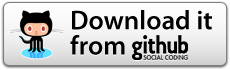
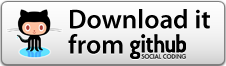
Badge size fixed

diff --git a/projects.html b/projects.html
@@ -16,8 +16,8 @@
             <div class="col-lg-4">
                 <a href='https://play.google.com/store/apps/details?id=com.tbirkas.efflux&utm_source=global_co&utm_medium=prtnr&utm_content=Mar2515&utm_campaign=PartBadge&pcampaignid=MKT-Other-global-all-co-prtnr-py-PartBadge-Mar2515-1'><img
                         alt='Get it on Google Play'
-                        src='https://play.google.com/intl/en_us/badges/images/generic/en_badge_web_generic.png'
-                        height="70px"/></a>
+                        src='assets/play-download-button.png'
+                        height="52px"/></a>
             </div>
             <div class="col-lg-4"></div>
         </div>
@@ -43,14 +43,14 @@
             <div class="col-lg-4">
                 <a href='https://play.google.com/store/apps/details?id=com.projectsweetwish.isitchristmas&utm_source=global_co&utm_medium=prtnr&utm_content=Mar2515&utm_campaign=PartBadge&pcampaignid=MKT-Other-global-all-co-prtnr-py-PartBadge-Mar2515-1'><img
                         alt='Get it on Google Play'
-                        src='https://play.google.com/intl/en_us/badges/images/generic/en_badge_web_generic.png'
-                        height="70px"/></a>
+                        src='assets/play-download-button.png'
+                        height="52px"/></a>
             </div>
             <div class="col-lg-4"><a
                     href='https://github.com/Birks/IsitChristmas'><img
                     alt='Download From GitHub'
                     src='assets/gitHub-download-button.png'
-                    height="52px" style='margin-top: 10px'/></a></div>
+                    height="52px" /></a></div>
         </div>
     </div>
 </div>
@@ -74,14 +74,14 @@
             <div class="col-lg-4">
                 <a href='https://play.google.com/store/apps/details?id=rs.ac.su.vts.vp.stopper&utm_source=global_co&utm_medium=prtnr&utm_content=Mar2515&utm_campaign=PartBadge&pcampaignid=MKT-Other-global-all-co-prtnr-py-PartBadge-Mar2515-1'><img
                         alt='Get it on Google Play'
-                        src='https://play.google.com/intl/en_us/badges/images/generic/en_badge_web_generic.png'
-                        height="70px"/></a>
+                        src='assets/play-download-button.png'
+                        height="52px"/></a>
             </div>
             <div class="col-lg-4"><a
                     href='https://github.com/Birks/Chronoshaker'><img
                     alt='Download From GitHub'
                     src='assets/gitHub-download-button.png'
-                    height="52px" style='margin-top: 10px'/></a></div>
+                    height="52px" /></a></div>
         </div>
     </div>
 </div>
@@ -102,12 +102,12 @@
             </div>
         </div>
         <div class="row">
-            <div class="col-lg-4" style="margin-left: 10px">
+            <div class="col-lg-4" >
                 <a
                         href='https://github.com/Birks/WorkTime'><img
                         alt='Download From GitHub'
                         src='assets/gitHub-download-button.png'
-                        height="52px" style='margin-top: 10px'/></a>
+                        height="52px"/></a>
             </div>
             <div class="col-lg-4"></div>
         </div>
